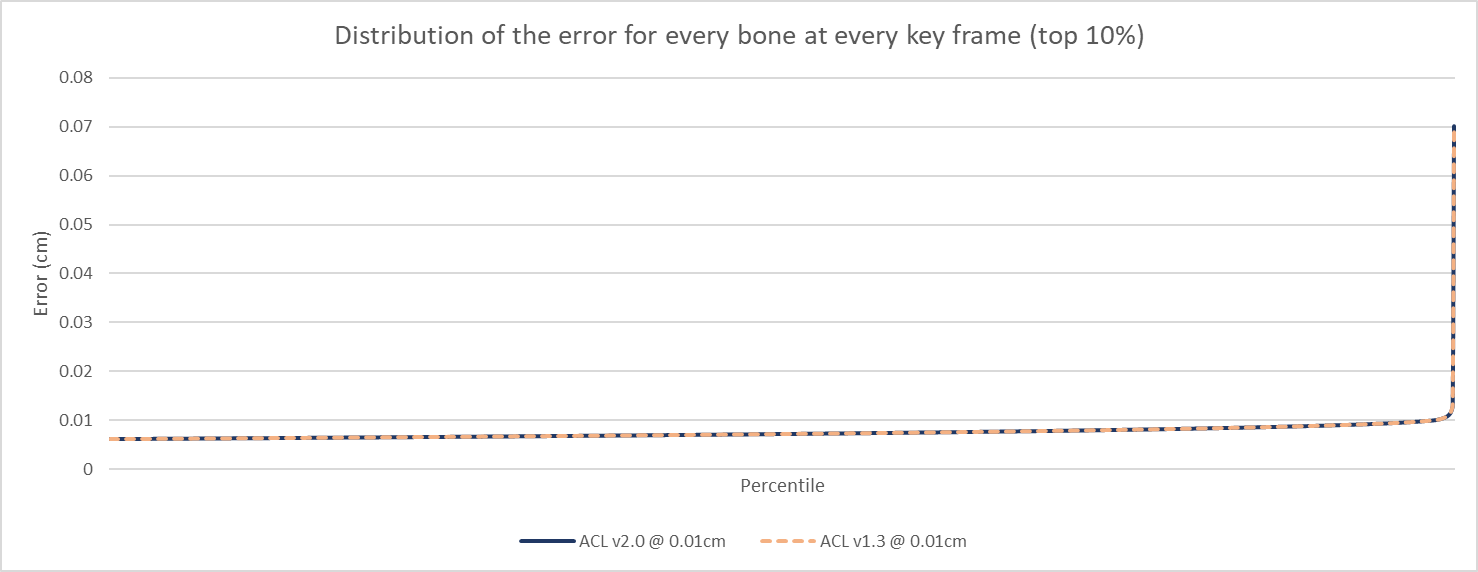
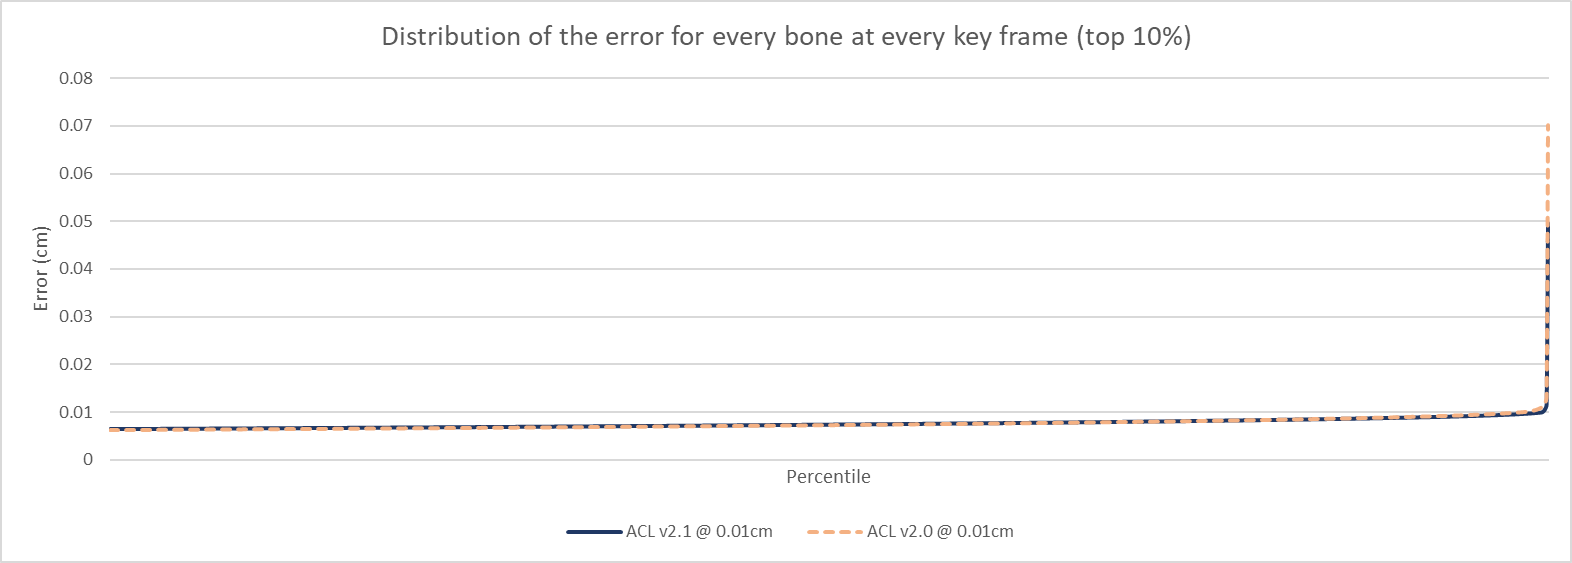
docs: update CMU compression stats

diff --git a/docs/cmu_performance.md b/docs/cmu_performance.md
@@ -1,14 +1,14 @@
 # Carnegie-Mellon University database performance
 
-|                       | v2.0.0 | v1.3.0 | v1.2.0 |
+|                       | v2.1.0 | v2.0.0 | v1.3.0 |
 | --------------------- | ---------- | ---------- | ---------- |
-| **Compressed size**   | 72.14 MB | 71.00 MB | 71.01 MB |
-| **Compression ratio** | 19.81 : 1 | 20.13 : 1 | 20.13 : 1 |
-| **Compression time**  | 1m 55s | 2m 22.3s | 6m 9.71s |
-| **Compression speed**  | 12727.73 KB/sec | 10285.52 KB/sec | 3958.99 KB/sec |
-| **Max error**         | 0.0725 cm | 0.0725 cm | 0.0725 cm |
+| **Compressed size**   | 65.66 MB | 72.14 MB | 71.00 MB |
+| **Compression ratio** | 21.77 : 1 | 19.81 : 1 | 20.13 : 1 |
+| **Compression time**  | 1m 45s | 1m 55s | 2m 22s |
+| **Compression speed**  | 13959.52 KB/sec | 12727.73 KB/sec | 10285.52 KB/sec |
+| **Max error**         | 0.0495 cm | 0.0725 cm | 0.0725 cm |
 | **Error 99<sup>th</sup> percentile** | 0.0089 cm | 0.0089 cm | 0.0089 cm |
-| **Samples below error threshold** | 99.86 % | 99.86 % | 99.86 % |
+| **Samples below error threshold** | 99.96 % | 99.86 % | 99.86 % |
 
 *Note: Starting with v1.3.0 measurements have been made with a Ryzen 2950X CPU while prior versions used an Intel i7 6850K.*
 
@@ -27,7 +27,7 @@ ACL supports various compression methods but only the overall best variant will 
 
 The error is measured **3cm** away from each bone to simulate the visual mesh skinning process as described [here](error_metrics.md) with the default error threshold of **0.01cm**. The **99th** percentile and the number of samples below the error threshold are calculated by measuring the error on every bone at every sample.
 
-The performance of ACL in Unreal Engine 4 is tracked by the plugin [here](https://github.com/nfrechette/acl-ue4-plugin/blob/develop/Docs/cmu_performance.md).
+The performance of ACL in Unreal Engine is tracked by the plugin [here](https://github.com/nfrechette/acl-ue4-plugin/blob/develop/Docs/cmu_performance.md).
 
 # Results in images
 
